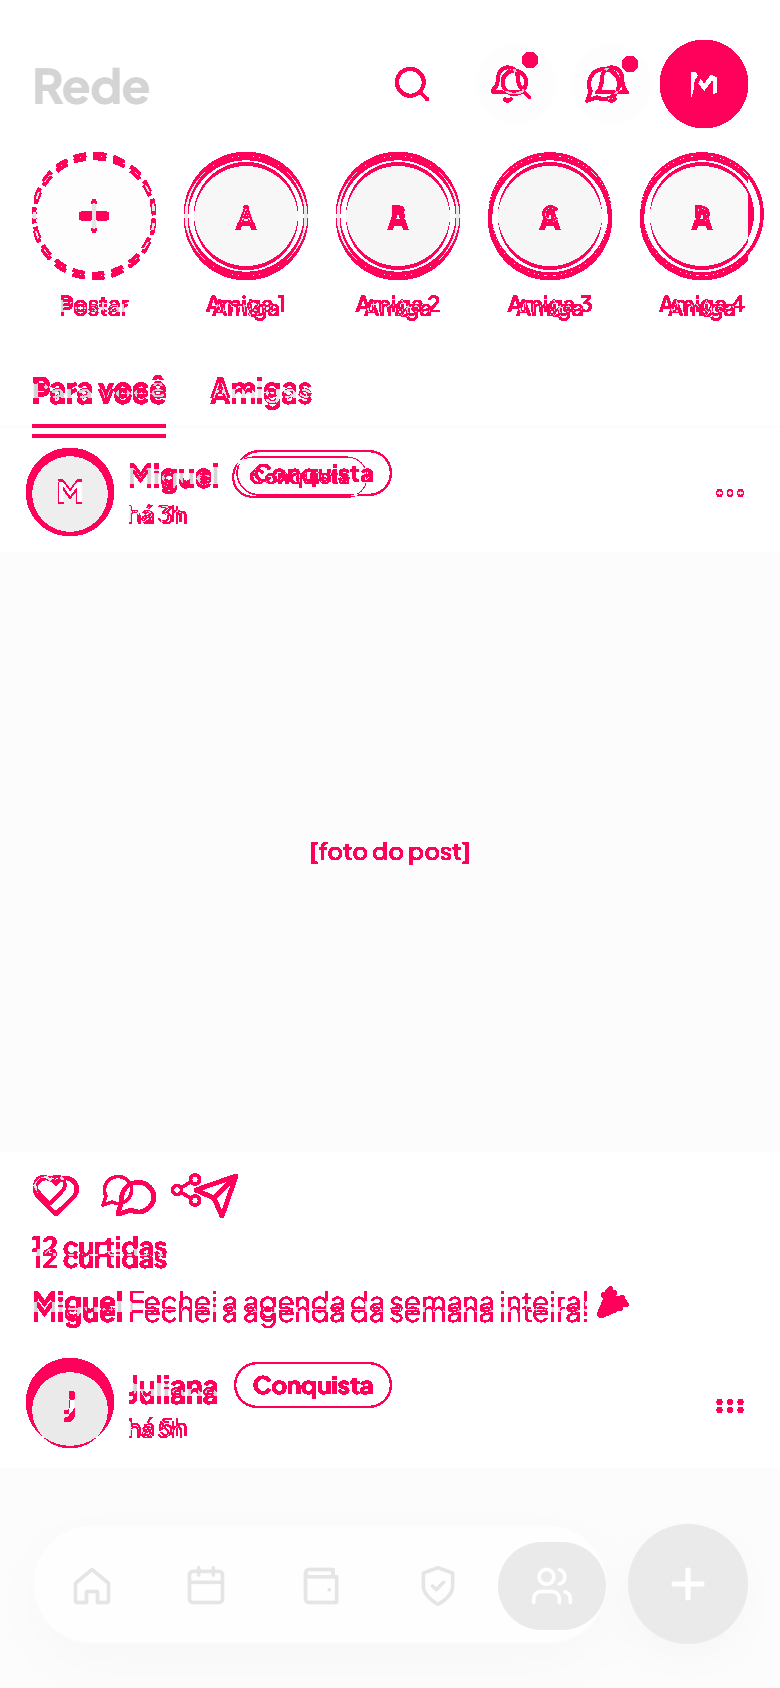
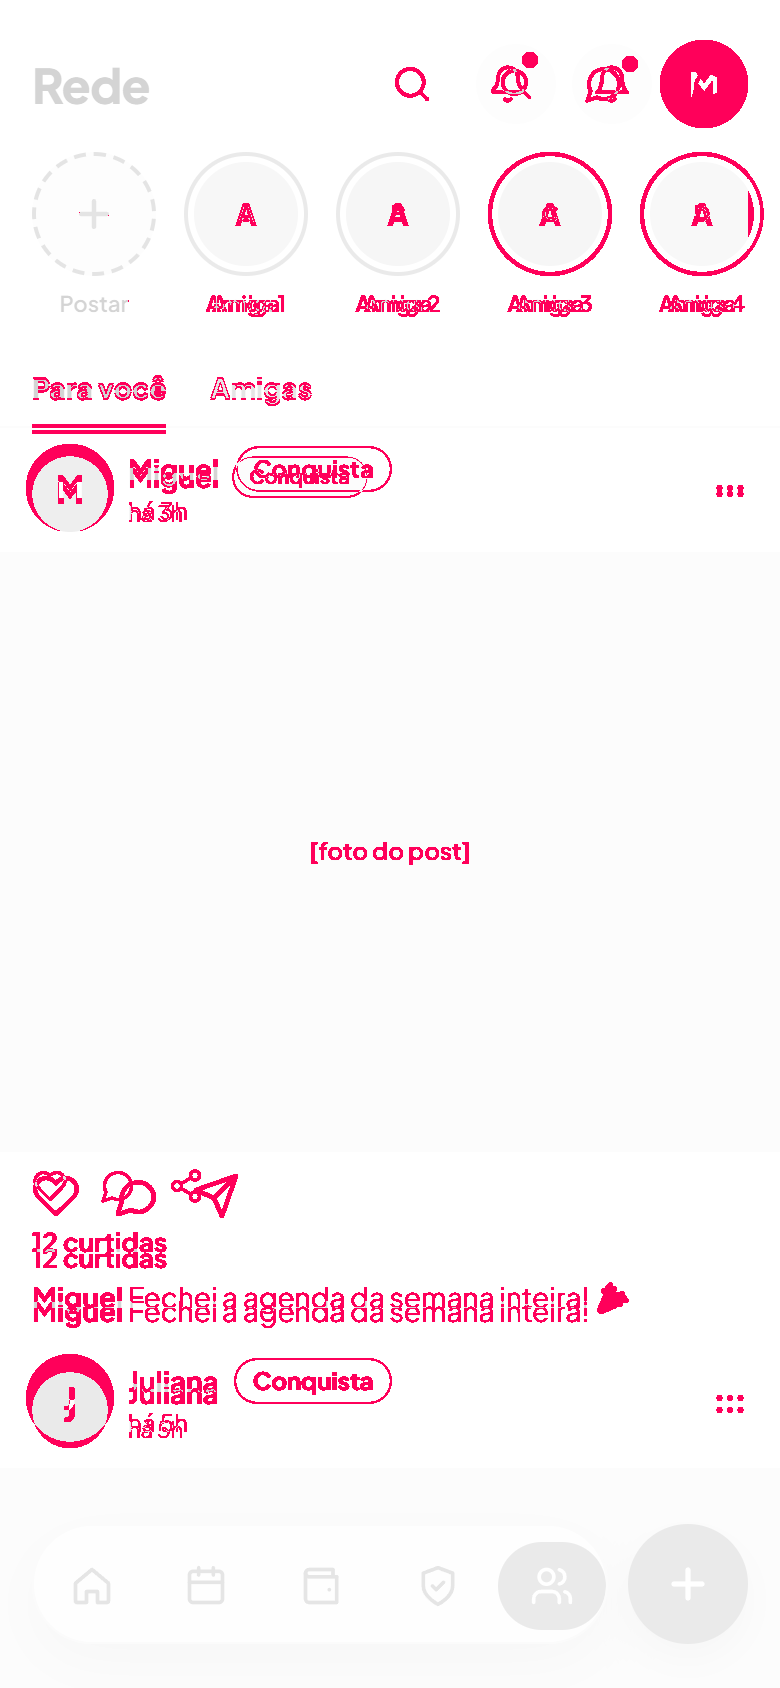
feat(pixel): fileira de amigas na altura exata da referência
Medindo elemento a elemento, a inicial dentro do círculo da amiga estava 2px
abaixo do lugar: a referência põe em 81 e o app em 83. Como são cinco
círculos de 62px, esses 2px pintavam de vermelho a borda de todos eles.

Primeiro tentei pelo cabeçalho, desenhando o avatar em 40 com alvo de 44.
Deslocou tudo 2px para CIMA em bloco, inclusive o título, que estava certo:
não era a altura do cabeçalho. Revertido.

O que era: o intervalo entre o cabeçalho e a fileira, 14px onde a referência
deixa 12. Com 12, título e fileira ficam os dois em posição exata.

Medido:
  Rede 390 claro   4,41% -> 3,62%
  Rede 390 escuro  5,00% -> 4,88%
  Rede 430 escuro 10,74% -> 9,72%

diff --git a/components/rede/RedeHeader.tsx b/components/rede/RedeHeader.tsx
@@ -79,7 +79,7 @@ export function RedeHeader({
   return (
     <div
       className="flex items-center justify-between gap-2"
-      style={{ marginBottom: "14px" }}
+      style={{ marginBottom: "12px" }}
     >
       {/* Jornada J06 (mockup 5-telas-8-temas-claro-escuro.html, tela Rede):
           título 24px/800, -0.5px. */}
